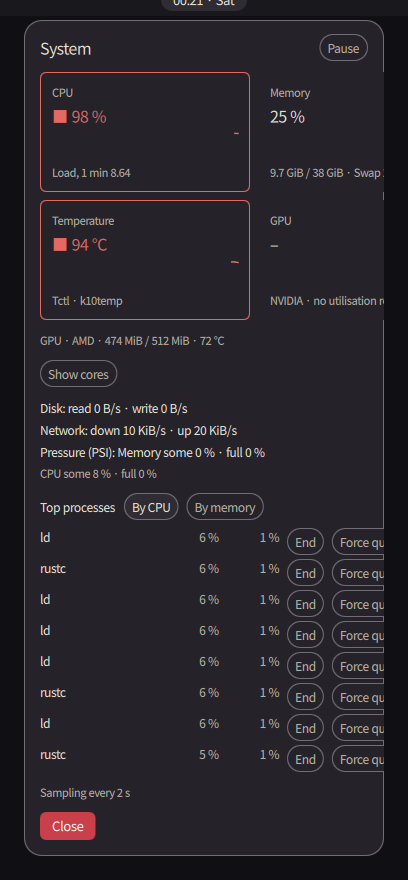
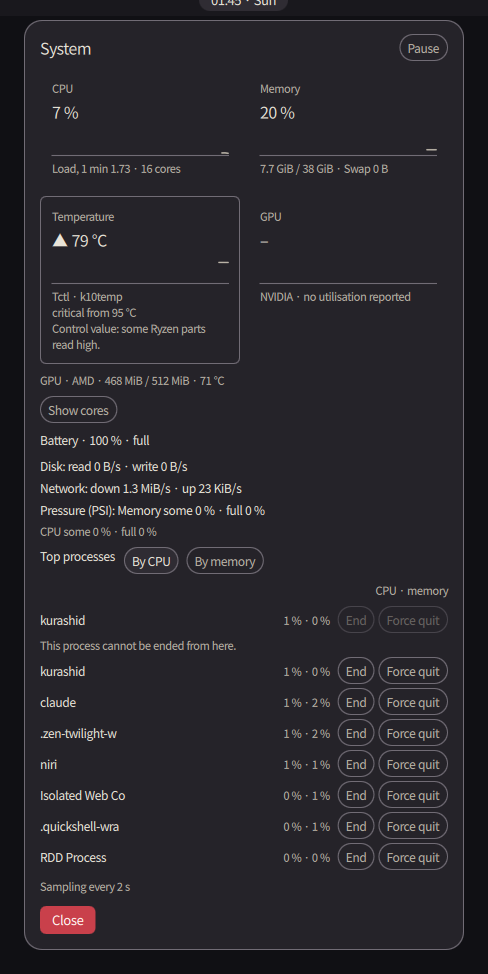
feat(sysmon): panel fits a 440 px card, one line per process, bar peek and no-sensor state
- The panel asks for a 440 px card (cardWidth; content 408 px) and takes every width from its
  own width: tiles in two columns, the sort row wraps, each process is one line with the name
  elided and its figures and actions kept at the right (B18). Live check: card 439 px wide,
  footer and Close inside a 1440 px screen.
- The bar widget shows a peek on hover or focus (cores highest and average, load, memory
  pressure, the process using most CPU) in a popup surface. The process list is read only
  while the peek shows (Ma). Needs Quickshell's PopupWindow: contract row 72.
- A shown temperature with no sensor is announced as "no sensor" (bar state).
- Screenshots from `just mods-live`: bar, panel, panel closed.
- Open: I48 (a paused watch still reports "Running now") waits for JobCtx::set_active,
  contract row 70 (W14-mod-runtime).

diff --git a/mods/sysmon/qml/Widget.qml b/mods/sysmon/qml/Widget.qml
@@ -1,12 +1,15 @@
 pragma ComponentBehavior: Bound
 import QtQuick
+import Quickshell
 import "format.js" as F
 
 // The bar widget (docs/ux/sysmon.md "Design"): the stats Settings chose, "CPU 12 % · RAM 41 %", with tabular
 // digits and a width per value that its widest figure needs, so a changing number never moves its neighbours.
 // The daemon's level picks the glyph and the tint (never colour alone, never blinking). Click opens the panel;
 // middle click cycles what the bar shows (all the chosen stats, then each alone); right click opens the panel
-// on its action menu (Pause, Settings, Open in btop). It watches the summary only while it is placed (Ma).
+// on its action menu (Pause, Settings, Open in btop). Hover or keyboard focus shows the peek, the facts behind
+// the figures, in a popup of its own. It watches the summary only while it is placed, and the process list only
+// while the peek shows (Ma).
 Item {
     id: widget
     required property var store
@@ -14,6 +17,7 @@ Item {
     required property var i18n
 
     readonly property var s: store.docs["mod.sysmon"]
+    readonly property var procs: store.docs["mod.sysmon.procs"]
     readonly property bool loaded: s !== undefined && s.loading !== true
     readonly property var stats: loaded && s.bar !== undefined ? s.bar : []
     // Middle click: 0 shows every chosen stat, n shows only the n-th one.
@@ -24,9 +28,13 @@ Item {
     readonly property string glyph: paused ? "‖ " : (level === "critical" ? "■ " : (level === "activity" ? "▲ " : ""))
     readonly property string caption: textOf()
     readonly property string sparkStat: firstWithHistory()
+    // A shown temperature with no sensor reads "–", never 0: the accessible name says why (the "no sensor" state).
+    readonly property bool noSensor: loaded && s.available === true && shown.indexOf("temp") >= 0 && s.temp === undefined
     // The activity tint: the theme's warn role when the theme has one, else the accent; critical is the error role.
     readonly property color activityInk: theme.tokens["color.status.warn"] !== undefined
         ? theme.tokens["color.status.warn"] : theme.accent
+    // The window this widget sits in (Quickshell's attached QsWindow): the peek's popup is anchored in it.
+    readonly property var bar: QsWindow.window
 
     function tr(key) {
         return widget.i18n.tr(key)
@@ -94,10 +102,13 @@ Item {
         return src.history.slice(-30)
     }
 
-    // Peek facts for the accessible description: the highest core and the average, and the load.
-    function peek() {
-        if (!loaded || !s.available) return ""
-        var parts = []
+    // The peek's lines: the state first when the figures are not live, then the cores (highest and average), the load,
+    // the memory pressure and the process that uses the most CPU (from the process document, read while the peek shows).
+    function peekFacts() {
+        var out = []
+        if (!loaded) return out
+        if (paused) out.push(tr("sysmon.panel.paused"))
+        if (!s.available) return out
         var per = s.cpu.per_core
         if (per !== undefined && per.length > 0) {
             var max = 0
@@ -106,15 +117,49 @@ Item {
                 max = Math.max(max, per[i])
                 sum += per[i]
             }
-            parts.push(F.fill(tr("sysmon.bar.peek.cores"), {max: Math.round(max), avg: Math.round(sum / per.length)}))
+            out.push(F.fill(tr("sysmon.bar.peek.cores"), {max: Math.round(max), avg: Math.round(sum / per.length)}))
         }
-        if (s.load1 !== undefined) parts.push(tr("sysmon.panel.load") + " " + F.load(s.load1))
-        return parts.join(" · ")
+        if (s.load1 !== undefined) out.push(tr("sysmon.panel.load") + " " + F.load(s.load1))
+        if (s.pressure !== undefined && s.pressure.memory !== undefined) {
+            out.push(tr("sysmon.panel.pressure") + ": " + tr("sysmon.panel.mem") + " "
+                + F.fill(tr("sysmon.panel.pressure.some"), {v: s.pressure.memory.some}))
+        }
+        if (procs !== undefined && procs.hottest !== undefined && procs.hottest !== null && procs.hottest.cpu !== undefined) {
+            out.push(F.fill(tr("sysmon.bar.peek.top"), {name: F.name(procs.hottest.name, 24), pct: F.pct(procs.hottest.cpu)}))
+        }
+        return out
+    }
+
+    // The peek shows while the pointer is on the widget or on the peek, or while the widget has keyboard focus. It stays
+    // for a moment after the pointer leaves, so the step from the widget onto the peek does not close it.
+    readonly property bool peekWanted: area.containsMouse || peekHover.hovered || widget.activeFocus
+    readonly property var peekLines: peekFacts()
+    property bool peekOpen: false
+    onPeekWantedChanged: {
+        if (peekWanted) {
+            peekHide.stop()
+            peekOpen = true
+        } else {
+            peekHide.restart()
+        }
+    }
+    Timer {
+        id: peekHide
+        interval: 250
+        onTriggered: widget.peekOpen = false
+    }
+    // The process list is read only while the peek shows (Ma).
+    onPeekOpenChanged: {
+        if (peekOpen) widget.store.watch("mod.sysmon.procs")
+        else widget.store.unwatch("mod.sysmon.procs")
     }
 
     // Keeps the summary subscribed while the widget is placed; released when it is removed.
     Component.onCompleted: widget.store.watch("mod.sysmon")
-    Component.onDestruction: widget.store.unwatch("mod.sysmon")
+    Component.onDestruction: {
+        widget.store.unwatch("mod.sysmon")
+        if (widget.peekOpen) widget.store.unwatch("mod.sysmon.procs")
+    }
 
     // Probes for the widths: hidden texts in the value font (tabular figures), measured by the layout.
     Text {
@@ -228,7 +273,9 @@ Item {
     // Left: the panel. Right: the panel on its menu. Middle: the next view of the stats. Each click that opens the
     // panel sets the menu flag it wants, so an earlier click's flag never opens the wrong view.
     MouseArea {
+        id: area
         anchors.fill: parent
+        hoverEnabled: true
         acceptedButtons: Qt.LeftButton | Qt.MiddleButton | Qt.RightButton
         cursorShape: Qt.PointingHandCursor
         onClicked: mouse => {
@@ -252,6 +299,54 @@ Item {
     Accessible.role: Accessible.Button
     Accessible.name: tr("sysmon.bar.open") + ": " + caption
         + (paused ? ", " + tr("sysmon.panel.paused") : "")
+        + (noSensor ? ", " + tr("sysmon.bar.no_sensor") : "")
         + (level === "normal" ? "" : ", " + tr("sysmon.state." + level))
-    Accessible.description: peek()
+    Accessible.description: peekLines.join(" · ")
+
+    // The peek: a popup surface under the widget. The compositor flips it above the widget when the bar sits at the
+    // bottom of the screen, and slides it in from an edge; the bar's own height does not clip it.
+    PopupWindow {
+        id: peek
+        visible: widget.peekOpen && widget.peekLines.length > 0
+        color: "transparent"
+        anchor.window: widget.bar
+        anchor.item: widget
+        anchor.edges: Edges.Bottom
+        anchor.gravity: Edges.Bottom
+        anchor.adjustment: PopupAdjustment.FlipY | PopupAdjustment.SlideX
+        implicitWidth: box.implicitWidth
+        implicitHeight: box.implicitHeight
+
+        Rectangle {
+            id: box
+            anchors.fill: parent
+            implicitWidth: Math.max(180, facts.implicitWidth + widget.theme.pad * 2)
+            implicitHeight: facts.implicitHeight + widget.theme.pad * 2
+            radius: widget.theme.rSm
+            color: widget.theme.containerHigh
+            border.width: 1
+            border.color: widget.theme.outline
+
+            HoverHandler { id: peekHover }
+
+            Column {
+                id: facts
+                x: widget.theme.pad
+                y: widget.theme.pad
+                spacing: 2
+                Repeater {
+                    model: widget.peekLines
+                    delegate: Text {
+                        required property var modelData
+                        required property int index
+                        text: modelData
+                        color: index === 0 ? widget.theme.fg : widget.theme.dim
+                        font.pixelSize: widget.theme.fsCaption
+                        font.family: widget.theme.fam(text, widget.theme.families)
+                        font.features: ({"tnum": 1})
+                    }
+                }
+            }
+        }
+    }
 }

diff --git a/mods/sysmon/qml/Panel.qml b/mods/sysmon/qml/Panel.qml
@@ -2,10 +2,11 @@ pragma ComponentBehavior: Bound
 import QtQuick
 import "format.js" as F
 
-// The system monitor panel (`panel:sysmon`, docs/ux/sysmon.md "Panel"). The Stage card is 360 px, so the content is
-// 328 px: two columns of tiles at 160 px, process rows of two lines, nothing wider (B18). The body is the figures,
-// or, after a right click on the bar, the action menu (Pause, Settings, Open in btop). It subscribes while it is open
-// (Ma); every number and level is the daemon's, this file only lays them out and says what state it is in.
+// The system monitor panel (`panel:sysmon`, docs/ux/sysmon.md "Panel"). It asks the Stage for a 440 px card (`cardWidth`,
+// the brief's "~440 px"), so its content is 408 px: two columns of tiles and one line per process (name, then the
+// figures and actions). Every width below is the panel's own `width`, never a constant, so the layout follows the card (B18). The
+// body is the figures, or, after a right click on the bar, the action menu (Pause, Settings, Open in btop). It
+// subscribes while it is open (Ma); every number and level is the daemon's, this file only lays them out.
 Item {
     id: panel
     required property var store
@@ -165,7 +166,10 @@ Item {
         })
     }
 
-    implicitWidth: 328
+    // The card's outer width this panel asks for (contract row 66; the Stage clamps it to 360..720 px). The content is
+    // the card less its margins, 2 × (Theme.pad + 4), the Stage's own rule, so the panel and its card agree.
+    property int cardWidth: 440
+    implicitWidth: cardWidth - 2 * (panel.theme.pad + 4)
     width: implicitWidth
     implicitHeight: column.implicitHeight
 
@@ -492,7 +496,8 @@ Item {
             spacing: panel.theme.gap
             opacity: panel.paused ? panel.theme.staleOpacity : 1
 
-            Row {
+            // The title and the two sort pills wrap rather than push past the card's edge.
+            Flow {
                 width: parent.width
                 spacing: panel.theme.gap
                 Text {

diff --git a/mods/sysmon/qml/ProcessList.qml b/mods/sysmon/qml/ProcessList.qml
@@ -3,9 +3,10 @@ import QtQuick
 import "format.js" as F
 
 // The top processes (docs/ux/sysmon.md, "The process that matters"). One line per process: the name (elided; the full
-// name and the pid are what a screen reader hears), the CPU and memory share, then End (SIGTERM: the program may save
-// first) and Force quit (SIGKILL: unsaved work is lost). A process the mod may not end says why, in words under the
-// row. Each signal is confirmed in place and names the signal. Shared by the panel and the Island's expanded view.
+// name and the pid are what a screen reader hears), its CPU and memory share, then End (SIGTERM: the program may save
+// first) and Force quit (SIGKILL: unsaved work is lost). A process the mod may not end says why, in words under the row.
+// Each signal is confirmed in place and names the signal. Shared by the panel and the Island's expanded view. Nothing
+// here has a fixed width: the name takes the room that the figures and the actions leave, so a row fits any card (B18).
 Column {
     id: list
     required property var store
@@ -50,7 +51,7 @@ Column {
     onDocChanged: sync()
     Component.onCompleted: sync()
 
-    width: parent ? parent.width : 328
+    width: parent ? parent.width : 0
     spacing: list.theme.xs
 
     Text {
@@ -73,10 +74,10 @@ Column {
             width: list.width
             spacing: list.theme.xs
 
-            // The one line: the name on the left (elided), the shares, then the two actions on the right.
+            // The one line: the actions and the figures keep their own width, the name takes the rest.
             Item {
                 width: row.width
-                height: Math.max(buttons.implicitHeight, nameText.implicitHeight)
+                height: Math.max(nameText.implicitHeight, figures.implicitHeight, buttons.implicitHeight)
 
                 Row {
                     id: buttons

diff --git a/mods/sysmon/qml/Tile.qml b/mods/sysmon/qml/Tile.qml
@@ -1,8 +1,8 @@
 import QtQuick
 
 // One metric in the panel: label, value, a 60-sample sparkline and the lines of detail (docs/ux/sysmon.md, "Panel").
-// The width is the grid's cell (two cells fill the 328 px content); the detail wraps, so a long source or a list of
-// paths searched never pushes the tile past its cell. The level comes from the daemon and is shown by a glyph as
+// The width is the grid's cell (two cells fill the panel's content, 408 px at the default card); the detail wraps, so a
+// long source or a list of paths searched never pushes the tile past its cell. The level comes from the daemon and is shown by a glyph as
 // well as by colour (never colour alone).
 Rectangle {
     id: tile

diff --git a/mods/sysmon/qml/PillButton.qml b/mods/sysmon/qml/PillButton.qml
@@ -1,8 +1,8 @@
 import QtQuick
 
-// A small text button for this mod's views, self-contained (mod components cannot import the shell's
-// components). Keyboard: Tab reaches it, Return or Space presses it; the focus ring is drawn outside the
-// control so it is visible on every surface. An unavailable button says why in its accessible name.
+// A small text pill for this mod's rows and menus. Keyboard: Tab reaches it, Return or Space presses it; the focus
+// ring is drawn outside the control so it is visible on every surface. An unavailable button says why in its
+// accessible name.
 Rectangle {
     id: btn
     required property var theme

diff --git a/mods/sysmon/qml/MenuRow.qml b/mods/sysmon/qml/MenuRow.qml
@@ -10,7 +10,7 @@ Rectangle {
     property string reason: ""
     signal activated()
 
-    width: parent ? parent.width : 328
+    width: parent ? parent.width : 0
     implicitHeight: caption.implicitHeight + row.theme.xs * 2 + (reasonText.visible ? reasonText.implicitHeight + row.theme.xs : 0)
     radius: row.theme.rSm
     color: hover.hovered && row.available ? row.theme.containerHigh : "transparent"

diff --git a/crates/kurashi-mod-sysmon/src/tests.rs b/crates/kurashi-mod-sysmon/src/tests.rs
@@ -748,7 +748,9 @@ async fn the_menu_opens_while_paused_and_reads_nothing() {
     let e = enable(&sys, Values::new());
     let task = subscribe(&e.summary, &e.summary_docs, &e.settings);
     tokio::time::sleep(Duration::from_secs(1)).await;
-    act(&e, "sysmon.pause", json!({"paused": true})).await.unwrap();
+    act(&e, "sysmon.pause", json!({"paused": true}))
+        .await
+        .unwrap();
     tokio::time::sleep(Duration::from_millis(50)).await;
     let reads = stat_reads(&m.roots);
     // A right click while paused: the menu (with Resume in it) opens from the stale values, unsampled.
@@ -758,6 +760,10 @@ async fn the_menu_opens_while_paused_and_reads_nothing() {
     assert_eq!(last["menu"], json!(true));
     assert_eq!(last["paused"], json!(true));
     assert_eq!(last["paused_by"], json!("panel"));
-    assert_eq!(stat_reads(&m.roots), reads, "paused: the menu reads nothing");
+    assert_eq!(
+        stat_reads(&m.roots),
+        reads,
+        "paused: the menu reads nothing"
+    );
     task.abort();
 }
